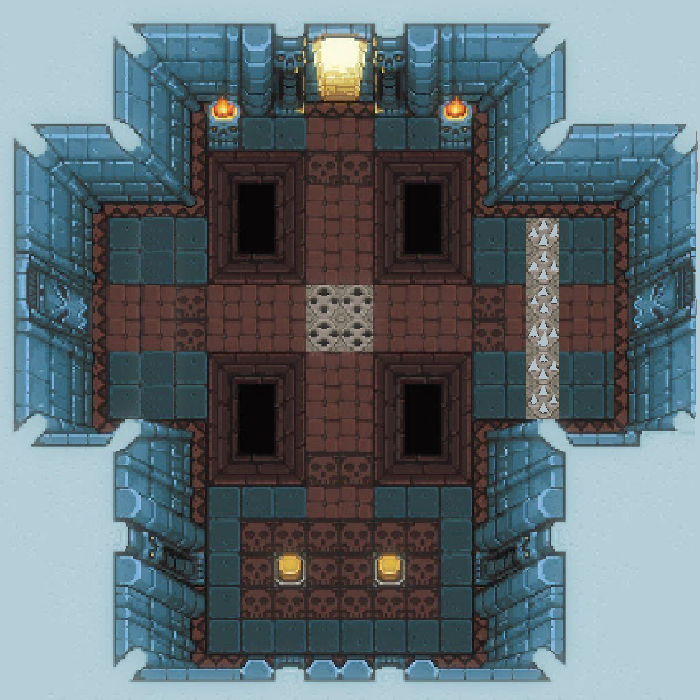
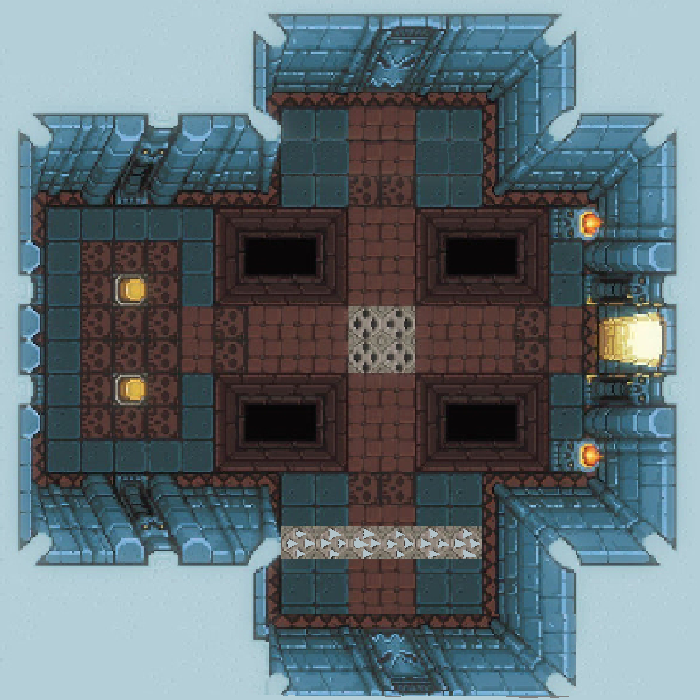
Darkroom 🚧
Bilder in den Code implementiert und Array angepasst

diff --git a/src/Map.java b/src/Map.java
@@ -99,9 +99,32 @@ public class Map {
             {0, 0, 0, 0, 0, 0, 0, 1, 0, 0, 0, 0, 0, 0, 1, 0, 0, 0, 0, 0},
             {0, 0, 0, 0, 0, 0, 0, 1, 0, 0, 0, 0, 0, 0, 1, 0, 0, 0, 0, 0},
             {0, 1, 1, 1, 1, 1, 1, 1, 0, 0, 0, 0, 0, 0, 1, 0, 0, 0, 0, 0},
-            {1, 0, 0, 0, 0, 0, 1, 0, 1, 1, 0, 0, 0, 1, 0, 0, 0, 0, 0, 0},
-            {1, 0, 0, 0, 0, 0, 1, 0, 0, 1, 0, 0, 0, 1, 0, 0, 0, 0, 0, 0},
-            {1, 0, 0, 0, 0, 0, 1, 1, 1, 1, 0, 0, 0, 1, 1, 1, 1, 0, 0, 0},
+            {1, 0, 0, 0, 0, 0, 1, 0, 1, 1, 0, 0, 1, 1, 0, 0, 0, 0, 0, 0},
+            {1, 0, 0, 0, 0, 0, 1, 0, 0, 1, 0, 0, 1, 0, 0, 0, 0, 0, 0, 0},
+            {1, 0, 0, 0, 0, 0, 1, 1, 1, 1, 0, 0, 1, 1, 1, 1, 1, 0, 0, 0},
+            {1, 0, 0, 0, 0, 0, 0, 0, 0, 0, 0, 0, 0, 0, 0, 0, 0, 2, 0, 0},
+            {1, 0, 0, 0, 0, 0, 0, 0, 0, 0, 0, 0, 0, 0, 0, 0, 0, 2, 0, 0},
+            {1, 0, 0, 0, 0, 0, 1, 1, 1, 1, 0, 0, 1, 1, 1, 1, 1, 0, 0, 0},
+            {1, 0, 0, 0, 0, 0, 1, 0, 0, 1, 0, 0, 1, 0, 0, 0, 0, 0, 0, 0},
+            {1, 0, 0, 0, 0, 0, 1, 0, 1, 1, 0, 0, 1, 1, 0, 0, 0, 0, 0, 0},
+            {0, 1, 1, 1, 1, 1, 0, 1, 0, 0, 0, 0, 0, 0, 1, 0, 0, 0, 0, 0},
+            {0, 0, 0, 0, 0, 0, 0, 1, 1, 1, 1, 1, 1, 1, 1, 0, 0, 0, 0, 0},
+            {0, 0, 0, 0, 0, 0, 0, 1, 0, 0, 0, 0, 0, 0, 1, 0, 0, 0, 0, 0},
+            {0, 0, 0, 0, 0, 0, 0, 1, 0, 0, 0, 0, 0, 0, 1, 0, 0, 0, 0, 0},
+            {0, 0, 0, 0, 0, 0, 0, 0, 1, 1, 1, 1, 1, 1, 0, 0, 0, 0, 0, 0},
+            {0, 0, 0, 0, 0, 0, 0, 0, 0, 0, 0, 0, 0, 0, 0, 0, 0, 0, 0, 0},
+    };
+
+    int[][] darkroomFrei = {
+            {0, 0, 0, 0, 0, 0, 0, 0, 0, 0, 0, 0, 0, 0, 0, 0, 0, 0, 0, 0},
+            {0, 0, 0, 0, 0, 0, 0, 0, 0, 0, 0, 0, 0, 0, 0, 0, 0, 0, 0, 0},
+            {0, 0, 0, 0, 0, 0, 0, 0, 1, 1, 1, 1, 1, 1, 0, 0, 0, 0, 0, 0},
+            {0, 0, 0, 0, 0, 0, 0, 1, 0, 0, 0, 0, 0, 0, 1, 0, 0, 0, 0, 0},
+            {0, 0, 0, 0, 0, 0, 0, 1, 0, 0, 0, 0, 0, 0, 1, 0, 0, 0, 0, 0},
+            {0, 1, 1, 1, 1, 1, 1, 1, 0, 0, 0, 0, 0, 0, 1, 0, 0, 0, 0, 0},
+            {1, 0, 0, 0, 0, 0, 1, 0, 1, 1, 0, 0, 1, 1, 0, 0, 0, 0, 0, 0},
+            {1, 0, 0, 0, 0, 0, 1, 0, 0, 1, 0, 0, 1, 0, 0, 0, 0, 0, 0, 0},
+            {1, 0, 0, 0, 0, 0, 1, 1, 1, 1, 0, 0, 1, 1, 1, 1, 1, 0, 0, 0},
             {1, 0, 0, 0, 0, 0, 0, 0, 0, 0, 0, 0, 0, 0, 0, 0, 0, 2, 0, 0},
             {1, 0, 0, 0, 0, 0, 0, 0, 0, 0, 0, 0, 0, 0, 0, 0, 0, 2, 0, 0},
             {1, 0, 0, 0, 0, 0, 1, 1, 1, 1, 0, 0, 1, 1, 1, 1, 1, 0, 0, 0},

diff --git a/src/Grafiken.java b/src/Grafiken.java
@@ -28,12 +28,14 @@ public class Grafiken {
     private String hauptraum;
     private String druckplattenraum;
     private String darkroom;
+    private String darkroomFrei;
     private String schablone;
     private String signal;
     private String outside;
     private Image hauptraumImg;
     private Image druckplattenraumImg;
     private Image darkroomImg;
+    private Image darkroomFreiImg;
     private Image schabloneImg;
     private Image signalImg;
     private Image outsideImg;
@@ -53,7 +55,8 @@ public class Grafiken {
         //Maps
         hauptraum = "src/img/maps/hauptraum.png";
         druckplattenraum = "src/img/maps/druckplattenraum.png";
-        darkroom = "src/img/maps/darkroomRaster.jpg";
+        darkroom = "src/img/maps/darkroom.png";
+        darkroomFrei = "src/img/maps/darkroomFrei.png";
         schablone = "src/img/maps/schablone.png";
         signal = "src/img/maps/signal.PNG";
         outside = "src/img/maps/outside.png";
@@ -73,6 +76,7 @@ public class Grafiken {
             hauptraumImg = ImageIO.read(new File(hauptraum));
             druckplattenraumImg = ImageIO.read(new File(druckplattenraum));
             darkroomImg = ImageIO.read(new File(darkroom));
+            darkroomFreiImg = ImageIO.read(new File(darkroomFrei));
             schabloneImg = ImageIO.read(new File(schablone));
             signalImg = ImageIO.read(new File(signal));
             outsideImg = ImageIO.read(new File(outside));
